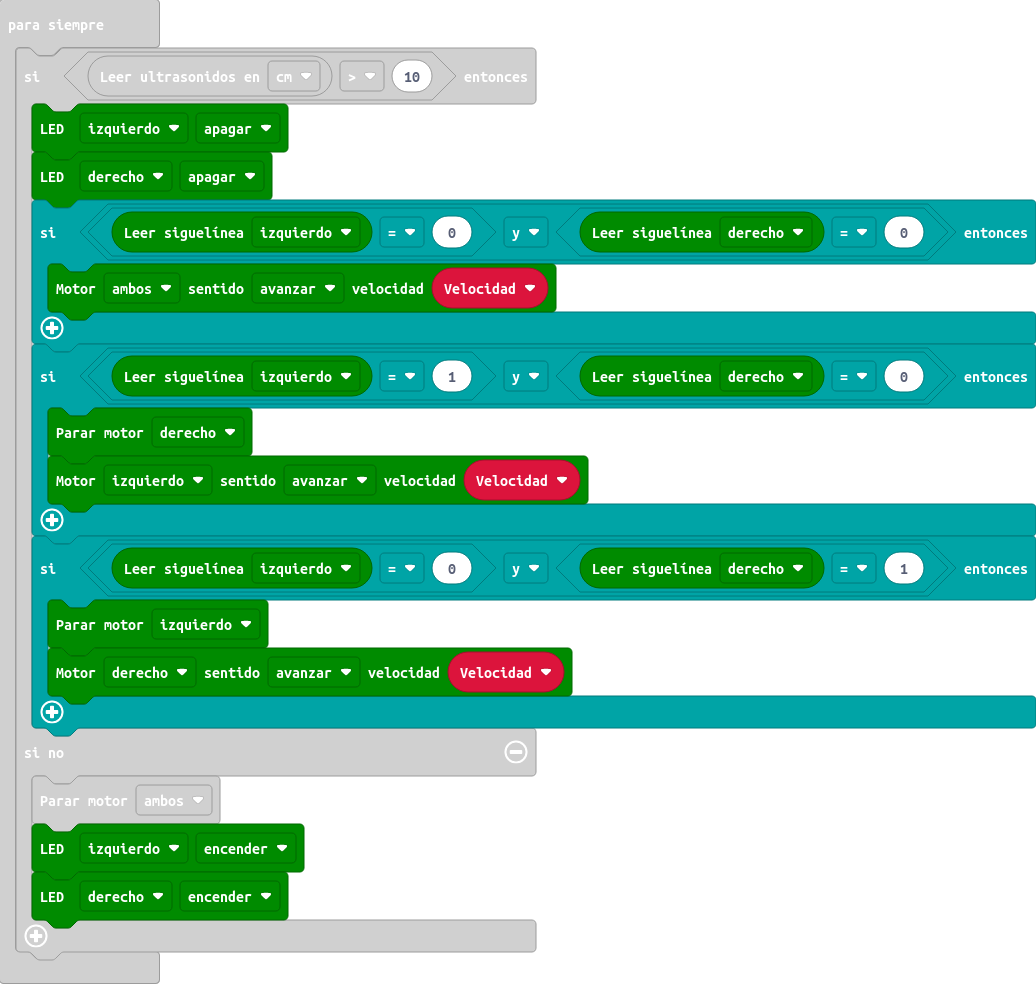
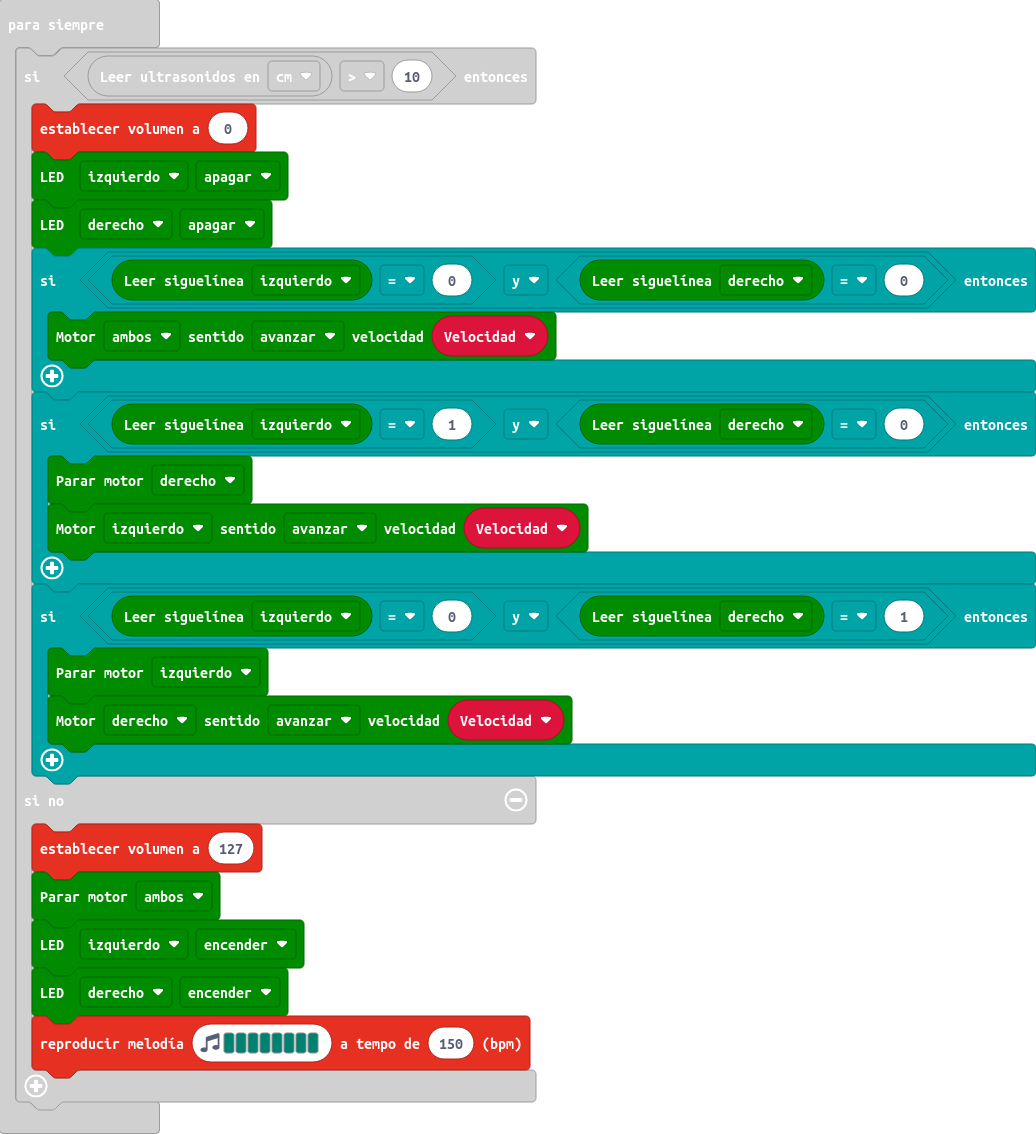
Actualizar pxt.json, main.blocks, main.ts

diff --git a/main.ts b/main.ts
@@ -1,6 +1,7 @@
 let Velocidad = 40
 basic.forever(function () {
     if (maqueen.Ultrasonic(PingUnit.Centimeters) > 10) {
+        music.setVolume(0)
         maqueen.writeLED(maqueen.LED.LEDLeft, maqueen.LEDswitch.turnOff)
         maqueen.writeLED(maqueen.LED.LEDRight, maqueen.LEDswitch.turnOff)
         if (maqueen.readPatrol(maqueen.Patrol.PatrolLeft) == 0 && maqueen.readPatrol(maqueen.Patrol.PatrolRight) == 0) {
@@ -15,8 +16,10 @@ basic.forever(function () {
             maqueen.motorRun(maqueen.Motors.M2, maqueen.Dir.CW, Velocidad)
         }
     } else {
+        music.setVolume(127)
         maqueen.motorStop(maqueen.Motors.All)
         maqueen.writeLED(maqueen.LED.LEDLeft, maqueen.LEDswitch.turnOn)
         maqueen.writeLED(maqueen.LED.LEDRight, maqueen.LEDswitch.turnOn)
+        music.playMelody("F F F F F F F F ", 150)
     }
 })
